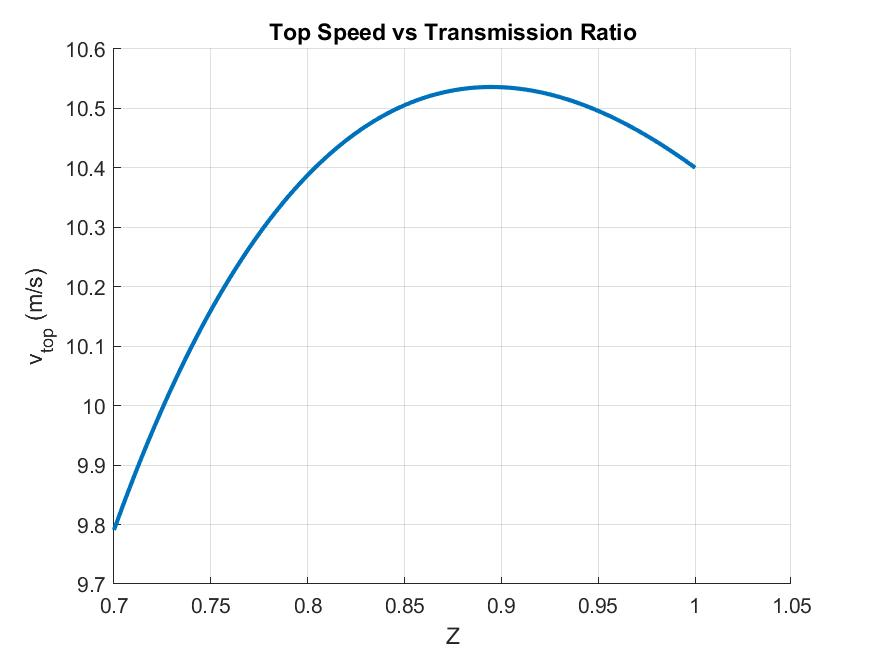
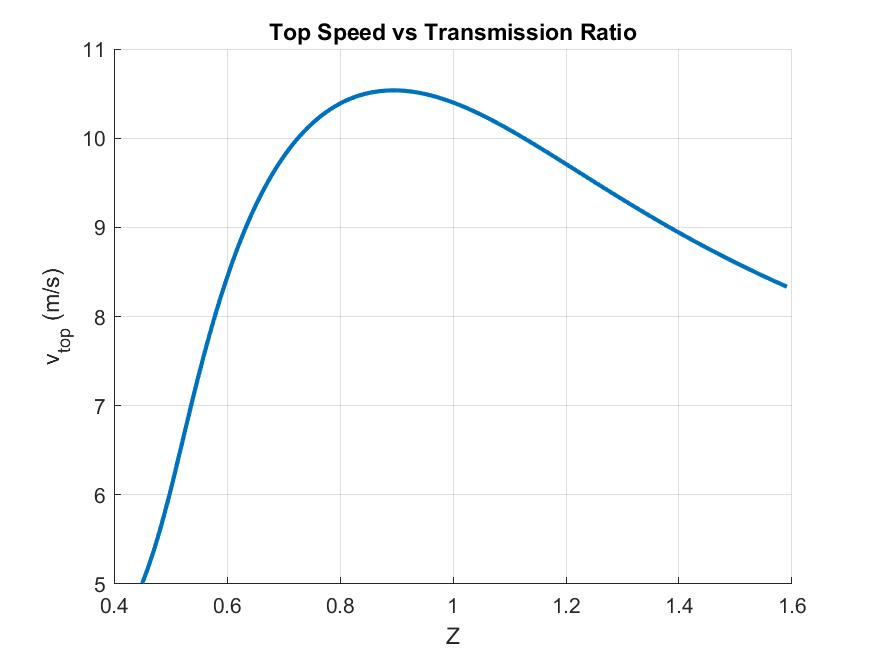
Broadened Top Speed vs Z Plot

diff --git a/Main.m b/Main.m
@@ -27,7 +27,7 @@ Z_range = Z_min:Z_step:Z_max;
 fprintf(fileID, 'Z_min=%.3f Z_max=%.3f Z_step=%.3f\n', Z_min, Z_max, Z_step);
 
 air = Air(5);
-[v_top, Z_best] = SearchTransmissionRatios(air, fan, Z_range, F_d);
+[v_top, Z_best] = SearchTransmissionRatios(air, fan, 0.2:0.001:5, F_d);
 vehicle = Vehicle(air, fan, Z_best, F_d);
 v = Simulate(vehicle, 25);
 [v_min, v_max] = vehicle.SpeedBoundary();
